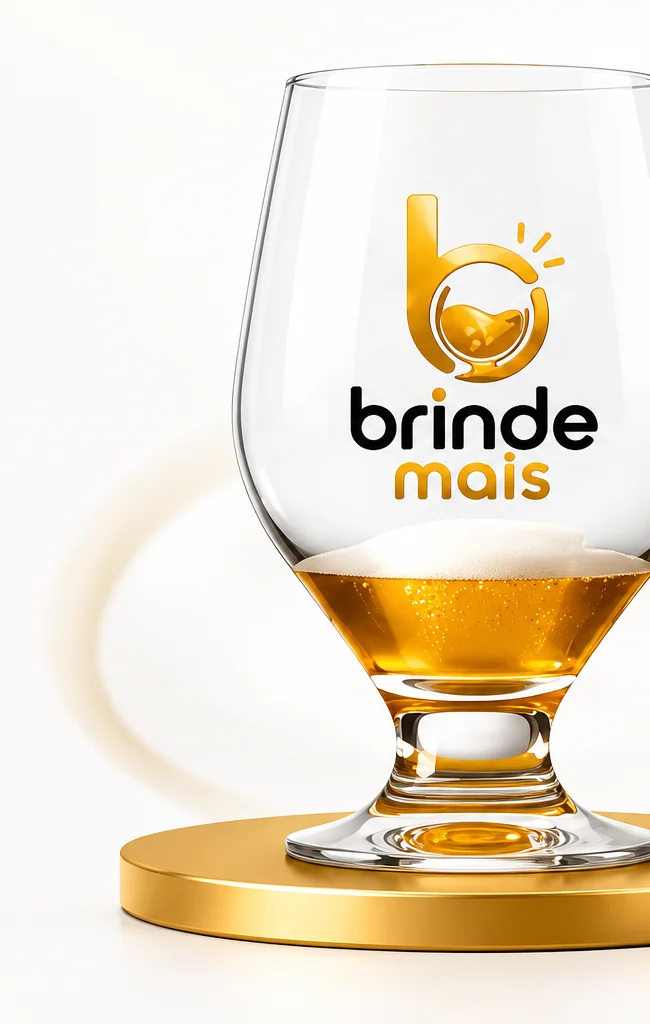
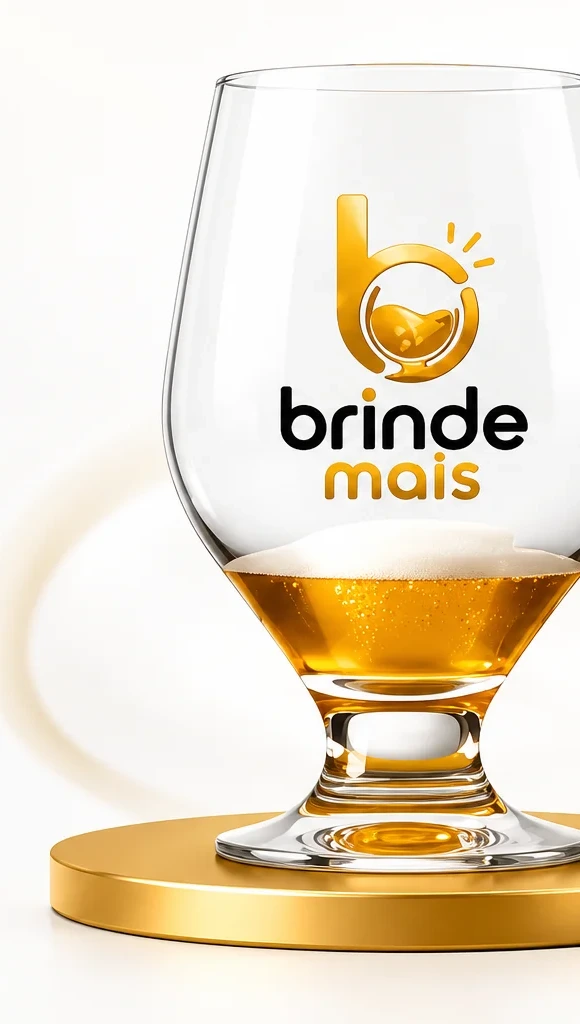
Corrige enquadramento da imagem do brinde no card da landing
A imagem original (650x1024) tinha uma faixa vazia à esquerda, e o card
forçava aspect-video (16:9) — a combinação deixava uma "costura" visível
entre a foto e o fundo em gradiente do card. Recorta a imagem removendo o
espaço morto e ajusta o card para aspect-[3/4] com object-cover, sem
distorcer nem cortar o topo (logo/taça) da foto.

Claude-Session: https://claude.ai/code/session_01KFmcd3o3EWXaeXCiATJ3km

Changed region(s): [[0.0, 0.0625, 0.9931, 0.9375], [0.4655, 0.1875, 0.931, 0.5]]

diff --git a/src/components/ui/GiftCard.tsx b/src/components/ui/GiftCard.tsx
@@ -19,7 +19,7 @@ export function GiftCard({ name, description, deadlineLabel, stockNote, image, o
 
   return (
     <div className="card-light flex flex-col">
-      <div className="relative w-full aspect-video rounded-lg bg-gold-gradient-soft border border-gold-400/20 flex items-center justify-center mb-5 overflow-hidden">
+      <div className="relative w-full aspect-[3/4] rounded-lg bg-gold-gradient-soft border border-gold-400/20 flex items-center justify-center mb-5 overflow-hidden">
         {image}
         <span className="absolute top-3 left-3 pill bg-ink-950/85 text-white backdrop-blur-sm inline-flex items-center gap-1.5">
           <Lock size={11} /> Exclusivo para assinantes ativos

diff --git a/src/pages/public/Landing.tsx b/src/pages/public/Landing.tsx
@@ -225,7 +225,7 @@ export default function Landing() {
                 alt="Taça de Cerveja Premium Brinde Mais"
                 loading="lazy"
                 decoding="async"
-                className="w-full h-full object-contain"
+                className="w-full h-full object-cover object-top"
               />
             }
             onView={goToSignup}
